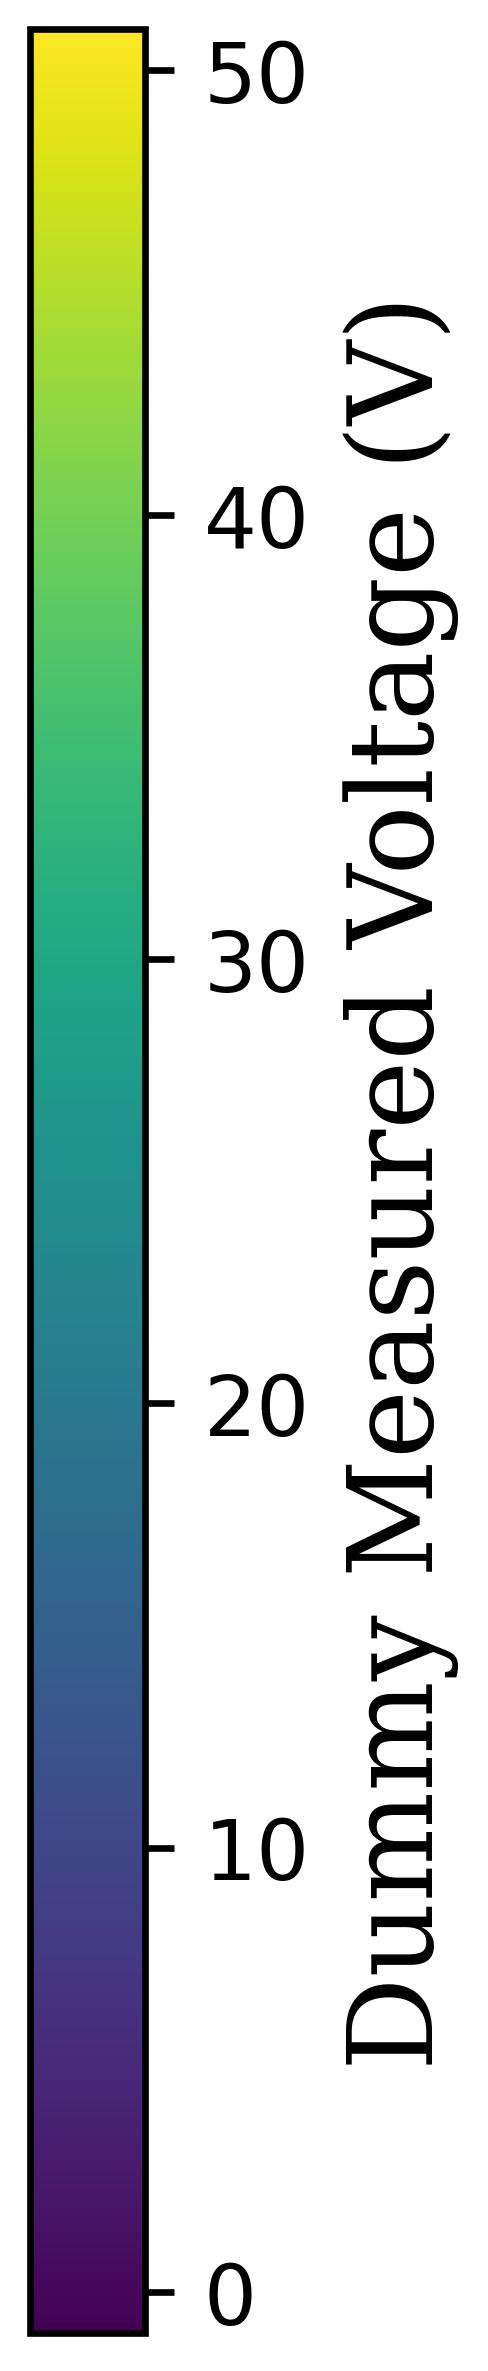
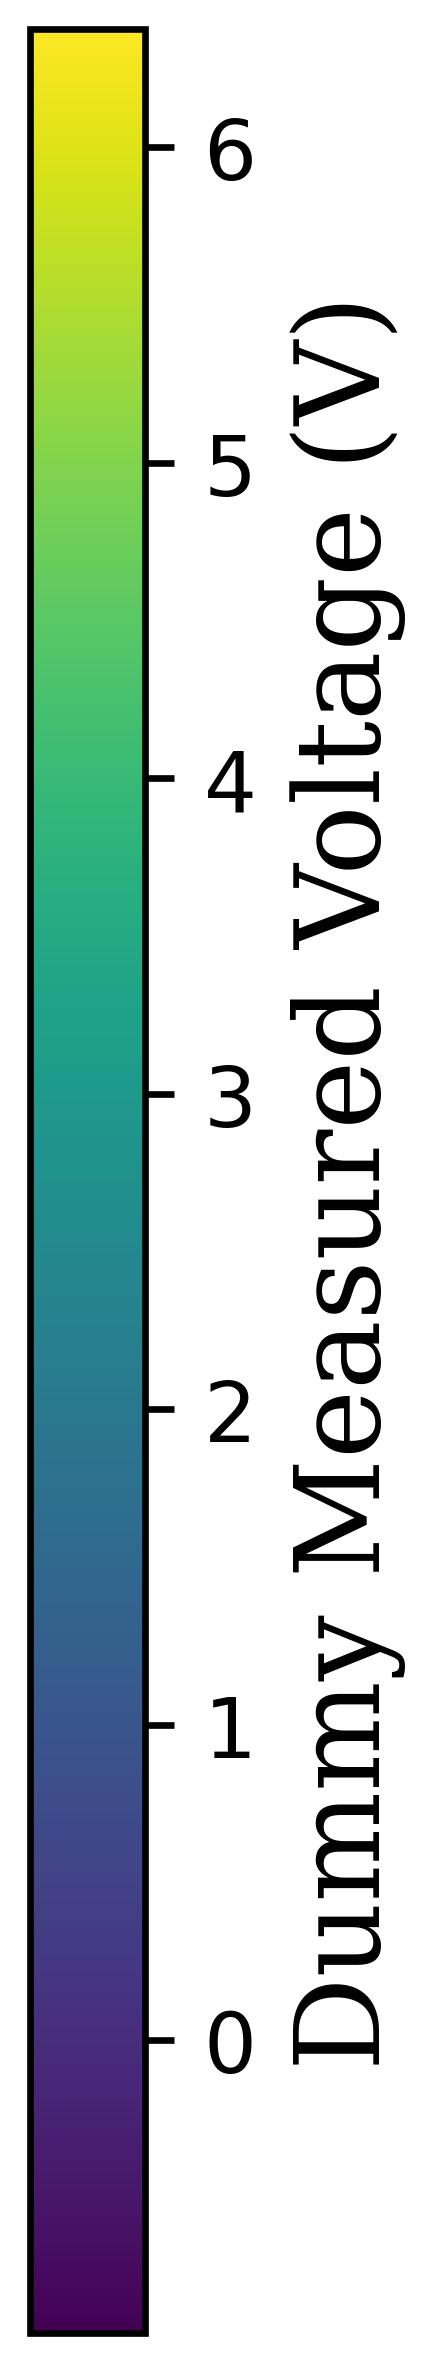
measurement cancelling

diff --git a/script2D.py b/script2D.py
@@ -12,6 +12,13 @@ from source import quantify_measurement
 
 
 
+now = time.time()
+def print_time_diff():
+    global now
+    t = time.time()
+    print(f"Delay: {t-now}")
+    now = t
+
 
 
 
@@ -21,7 +28,7 @@ def dummy_voltage_get():
     return _dummy_voltage
 def dummy_voltage_set(set_to):
     global _dummy_voltage
-    #print("set inner")
+    print_time_diff()
     _dummy_voltage = set_to
 dummy_voltage_source = Parameter("dummy_voltage", dummy_instrument, "Dummy Voltage", "V", get_cmd=dummy_voltage_get, set_cmd=dummy_voltage_set, bind_to_instrument=True)
 
@@ -33,7 +40,8 @@ def sweep_number_get():
     return _sweep_number
 def sweep_number_set(set_to):
     global _sweep_number
-    #print("set outter")
+    print(f"Sweep num set to: {set_to}")
+    print_time_diff()
     _sweep_number = set_to
 sweep_number = Parameter("sweep_number", dummy_instrument, "Sweep Number", get_cmd=sweep_number_get, set_cmd=sweep_number_set, bind_to_instrument=True)
 
@@ -42,22 +50,25 @@ sweep_number = Parameter("sweep_number", dummy_instrument, "Sweep Number", get_c
 
 
 def measured_voltage_get():
-    return sweep_number() + numpy.sin(dummy_voltage_source())
+    print("MEASURE")
+    return sweep_number() + dummy_voltage_source()
 def measured_voltage_get_second(): #this is to differentiate it from the first gettable
-    return sweep_number() * numpy.sin(dummy_voltage_source()) * 5
+    print("MEASURE")
+    return sweep_number() * dummy_voltage_source() * 5
 measured_voltage = Parameter("measured_voltage", dummy_instrument, "Dummy Measured Voltage", unit="V", get_cmd=measured_voltage_get, bind_to_instrument=True)
 second_gettable = Parameter("second_gettable", dummy_instrument, "Extra Gettable", unit="V", get_cmd=measured_voltage_get_second, bind_to_instrument=True)
-third_gettable =  Parameter("third_gettable", dummy_instrument, "Third Extra Gettable", unit="V", get_cmd=measured_voltage_get_second, bind_to_instrument=True)
 
 
-sweep_number.set(1)
-dummy_voltage_source.inter_delay = 0.0
+
+sweep_number.set(0)
+dummy_voltage_source.post_delay = 1
+sweep_number.post_delay = 3
 
 quantify_measurement.set_settables([dummy_voltage_source, sweep_number])
-quantify_measurement.set_gettables([measured_voltage])
+quantify_measurement.set_gettables([measured_voltage, second_gettable])
 
-quantify_measurement.make_setpoint_list([(-50, 50, 10)], dummy_voltage_source)
-quantify_measurement.make_setpoint_list([(0, 50, 10)], sweep_number)
-quantify_measurement.set_measurement_name("example")
+quantify_measurement.make_setpoint_list([(-50, 50, 3)], dummy_voltage_source)
+quantify_measurement.make_setpoint_list([(0, 50, 51)], sweep_number)
+quantify_measurement.set_measurement_name("2D Example")
 quantify_measurement.run()
-print("all out")
+print("run() returned")

diff --git a/source/quantify_measurement.py b/source/quantify_measurement.py
@@ -1,4 +1,3 @@
-
 from source.imports import *
 
 #remove old datadir
@@ -312,11 +311,18 @@ def run():
 		i+=1
 		print(f"Setpoint {i}/{number_of_setpoints} | {i/number_of_setpoints*100:.2f}%")
 
-
-	_meas_ctrl.run("hi", step_function=talk, lazy_set=True)
+	try:
+		_meas_ctrl.run("hi", step_function=talk, lazy_set=True)
+	except KeyboardInterrupt:
+		print("Measurement interrupted by user")
+	except Exception as e:
+		print("Measurement failed:", e)
+	finally:
+		pass
 
 	print("Wait... Saving measurement data...")
 	save_procedure(prep_traces_dset())
+
 	print("Measurement data saved!")
 	while plotters_running():
 		time.sleep(2)
